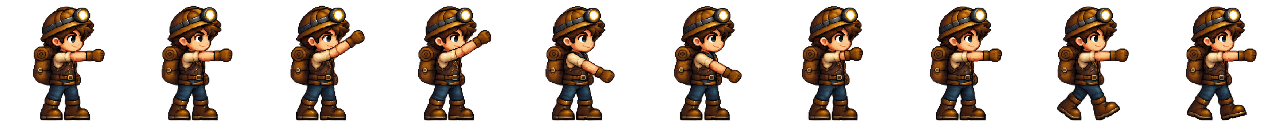
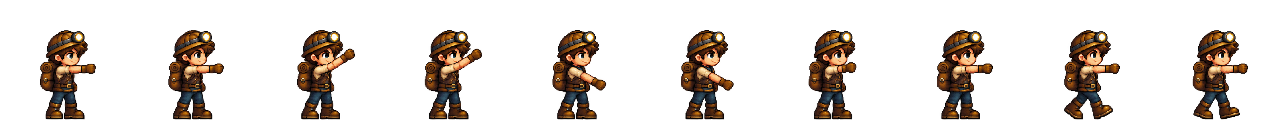
Tres defeitos que voce viu: a bala, o tamanho e a mao
O PROJETIL NAO APARECIA e mesmo assim acertava. Eu desenhava a bala em
coordenadas de TELA, e nesta altura do quadro o canvas ja esta transformado
pela camera — a criatura e o jogador desenham em coordenadas de MUNDO, com
`ctx.translate(this.x, ...)`. A conversao era aplicada duas vezes e a bala saia
pintada a centenas de pixels do mapa. Acertava porque a colisao usa a posicao
real; so o desenho estava no lugar errado. E o MESMO erro que ja me pegou no
eco de voz deste projeto, e eu o repeti.

Aproveitei para a bala se ler melhor: miolo claro com halo da cor da arma, para
ela aparecer contra rocha escura E contra o brilho de um veio de cristal.

O PERSONAGEM CRESCIA ao sacar a arma. O corpo ocupava 89,8% do quadro na tira
de mira contra 70,3% na de `idle` — 28% maior. Eu tinha escolhido "90% do
quadro" no olho quando escrevi o cortador. Agora ele MEDE o `idle` e copia:
mesma altura de corpo, mesma linha de pes. Conferido: 90 px e pes em y=119 nas
duas. E se a arte base mudar um dia, a tira nova nasce certa sozinha.

A ARMA SOLTAVA DA MAO mirando para cima e para baixo. Eu tinha TRES ancoras,
uma por direcao, e escolhia pela mira. Mas a pose nem sempre segue a mira:
andando de arma em punho o corpo usa os quadros 8-9, que tem o braco na
FRENTE, e no coice usa 6-7. Com a mira para cima eu pegava a ancora de cima
enquanto a tela mostrava o braco na frente, e a arma saltava para fora da mao.

Agora e uma ancora POR QUADRO, dez delas, medidas no proprio arquivo. A ancora
[…]

diff --git a/src/player/PlayerSprite.ts b/src/player/PlayerSprite.ts
@@ -31,17 +31,32 @@ export class PlayerSprite {
   weaponArt: string | null = null;
 
   /**
-   * Onde fica o PUNHO em cada direcao, em fracao do quadro de 128 px.
+   * Onde fica o PUNHO em CADA QUADRO, em fracao do quadro de 128 px.
    *
-   * Medido na propria folha, procurando o pixel opaco mais a direita de cada
-   * quadro — nao chutado no olho. O x mal muda (o braco estica sempre para a
-   * frente); quem muda e a altura, e por isso ha um valor por direcao.
+   * Um valor por quadro, e nao um por direcao — e essa era a falha. Andando de
+   * arma em punho o corpo usa os quadros 8-9, que tem o braco na FRENTE; se a
+   * mira estivesse para cima, eu escolhia a ancora de cima e a arma saltava
+   * para fora da mao. A ancora tem que seguir o desenho que esta na tela, e
+   * nao a intencao do jogador.
+   *
+   * Medidos no proprio arquivo, procurando o pixel opaco mais a direita de
+   * cada quadro e tirando a altura media da coluna dele.
    */
-  private static readonly PUNHO = {
-    frente: { x: 0.313, y: -0.534 },
-    cima: { x: 0.344, y: -0.659 },
-    baixo: { x: 0.297, y: -0.37 },
-  };
+  private static readonly PUNHO: { x: number; y: number }[] = [
+    { x: 0.242, y: -0.402 }, // 0-1 frente
+    { x: 0.242, y: -0.402 },
+    { x: 0.266, y: -0.508 }, // 2-3 cima
+    { x: 0.258, y: -0.508 },
+    { x: 0.227, y: -0.273 }, // 4-5 baixo
+    { x: 0.227, y: -0.273 },
+    { x: 0.188, y: -0.414 }, // 6-7 coice
+    { x: 0.25, y: -0.406 },
+    { x: 0.242, y: -0.406 }, // 8-9 andando
+    { x: 0.242, y: -0.402 },
+  ];
+
+  /** Qual quadro da tira de mira foi desenhado agora. */
+  private quadroDeMira = 0;
 
   update(dt: number, player: Player): void {
     const next = this.pickAnim(player);
@@ -271,7 +286,10 @@ export class PlayerSprite {
       ctx.scale(1 + player.landSquash * 0.12, sq);
     }
     ctx.drawImage(sheet, sx, sy, frameW, frameH, -w / 2, 0, w, h);
-    if (this.aiming && strip?.name === 'aim') this.desenharArma(ctx, h, flipped);
+    if (this.aiming && strip?.name === 'aim') {
+      this.quadroDeMira = strip.index;
+      this.desenharArma(ctx, h, flipped);
+    }
     ctx.restore();
     return true;
   }
@@ -291,12 +309,7 @@ export class PlayerSprite {
     const arte = this.weaponArt ? Assets.weapon(this.weaponArt) : null;
     if (!arte || !arte.width) return;
 
-    const p =
-      this.aimY < -0.45
-        ? PlayerSprite.PUNHO.cima
-        : this.aimY > 0.45
-          ? PlayerSprite.PUNHO.baixo
-          : PlayerSprite.PUNHO.frente;
+    const p = PlayerSprite.PUNHO[this.quadroDeMira] ?? PlayerSprite.PUNHO[0];
 
     // As fracoes do punho foram medidas na folha com o heroi olhando para a
     // DIREITA. Espelhado, o `ctx.scale(-1,1)` ja inverte o desenho — mas o

diff --git a/src/systems/WeaponSystem.ts b/src/systems/WeaponSystem.ts
@@ -236,28 +236,44 @@ export class WeaponSystem {
     return !this.world.isSolidAtPixel(b.x, b.y);
   }
 
+  /**
+   * Desenha em coordenadas de MUNDO.
+   *
+   * Nesta altura do quadro a tela ja esta transformada pela camera — e assim
+   * que a criatura e o jogador desenham, com `ctx.translate(this.x, ...)`.
+   * Eu tinha convertido para coordenadas de tela antes de desenhar, e a
+   * conversao era aplicada DUAS vezes: a bala saia pintada a centenas de
+   * pixels do mapa, acertava o alvo e nunca aparecia. E o mesmo erro que ja me
+   * pegou no eco de voz.
+   */
   render(ctx: CanvasRenderingContext2D, camera: Camera): void {
     ctx.save();
     ctx.lineCap = 'round';
     for (const b of this.pool) {
       if (!b.ativo) continue;
       if (!camera.sees(b.x, b.y)) continue;
-      const a = camera.worldToScreen(b.x, b.y);
-      const p = camera.worldToScreen(b.px, b.py);
       // A risca do rastro conta a DIRECAO. Um ponto sozinho a essa velocidade
       // vira um piscar sem sentido de leitura.
       ctx.strokeStyle = b.cor;
-      ctx.globalAlpha = 0.55;
-      ctx.lineWidth = b.raio * 1.2;
+      ctx.globalAlpha = 0.5;
+      ctx.lineWidth = b.raio * 1.1;
       ctx.beginPath();
-      ctx.moveTo(p.x, p.y);
-      ctx.lineTo(a.x, a.y);
+      ctx.moveTo(b.px, b.py);
+      ctx.lineTo(b.x, b.y);
       ctx.stroke();
 
-      ctx.globalAlpha = 1;
+      // Miolo claro com halo: a bala precisa se ler contra rocha escura E
+      // contra o brilho de um veio de cristal.
+      ctx.globalAlpha = 0.35;
       ctx.fillStyle = b.cor;
       ctx.beginPath();
-      ctx.arc(a.x, a.y, b.raio, 0, Math.PI * 2);
+      ctx.arc(b.x, b.y, b.raio * 2.1, 0, Math.PI * 2);
+      ctx.fill();
+
+      ctx.globalAlpha = 1;
+      ctx.fillStyle = '#fff6d8';
+      ctx.beginPath();
+      ctx.arc(b.x, b.y, b.raio, 0, Math.PI * 2);
       ctx.fill();
     }
     ctx.restore();
